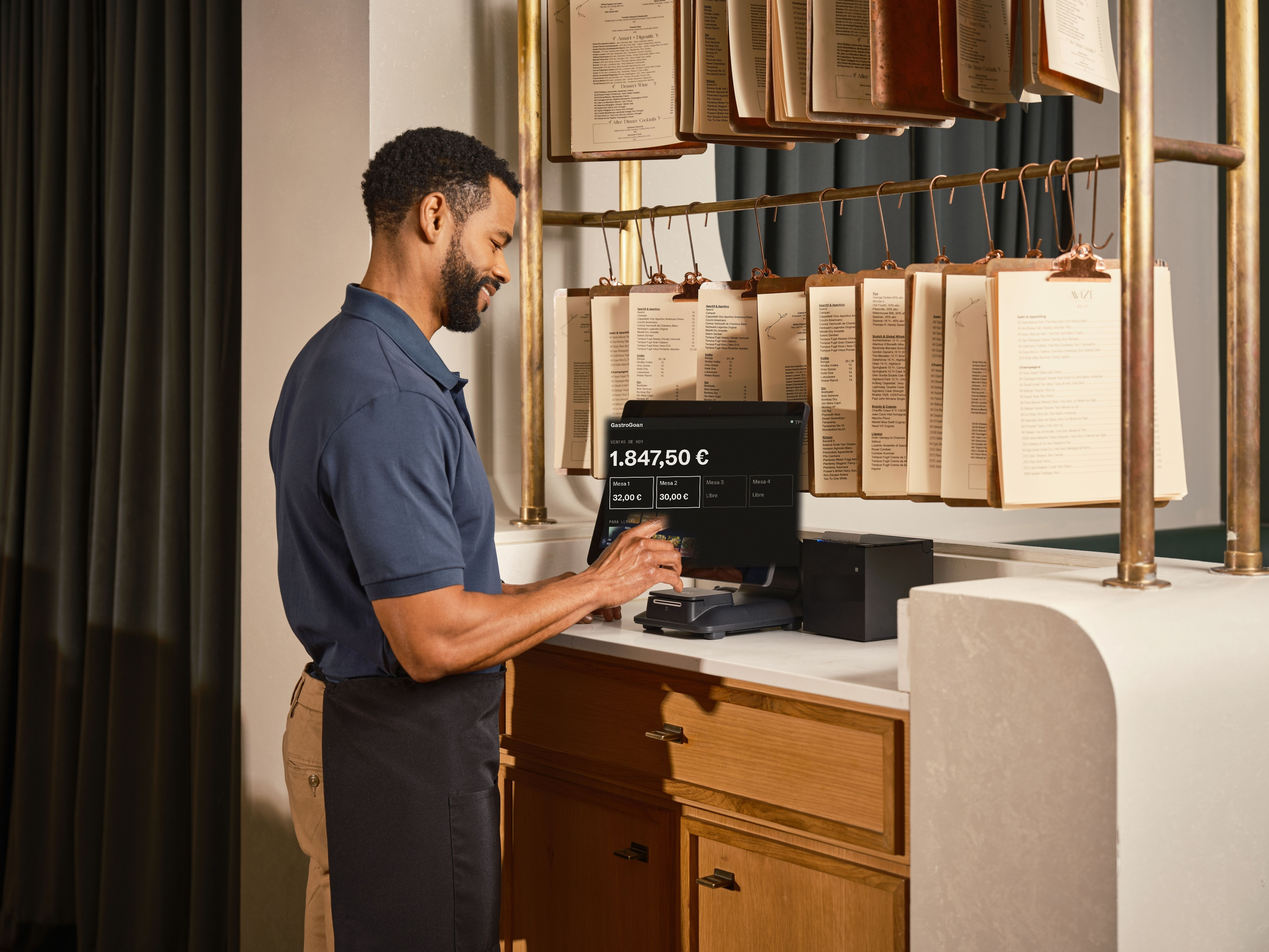
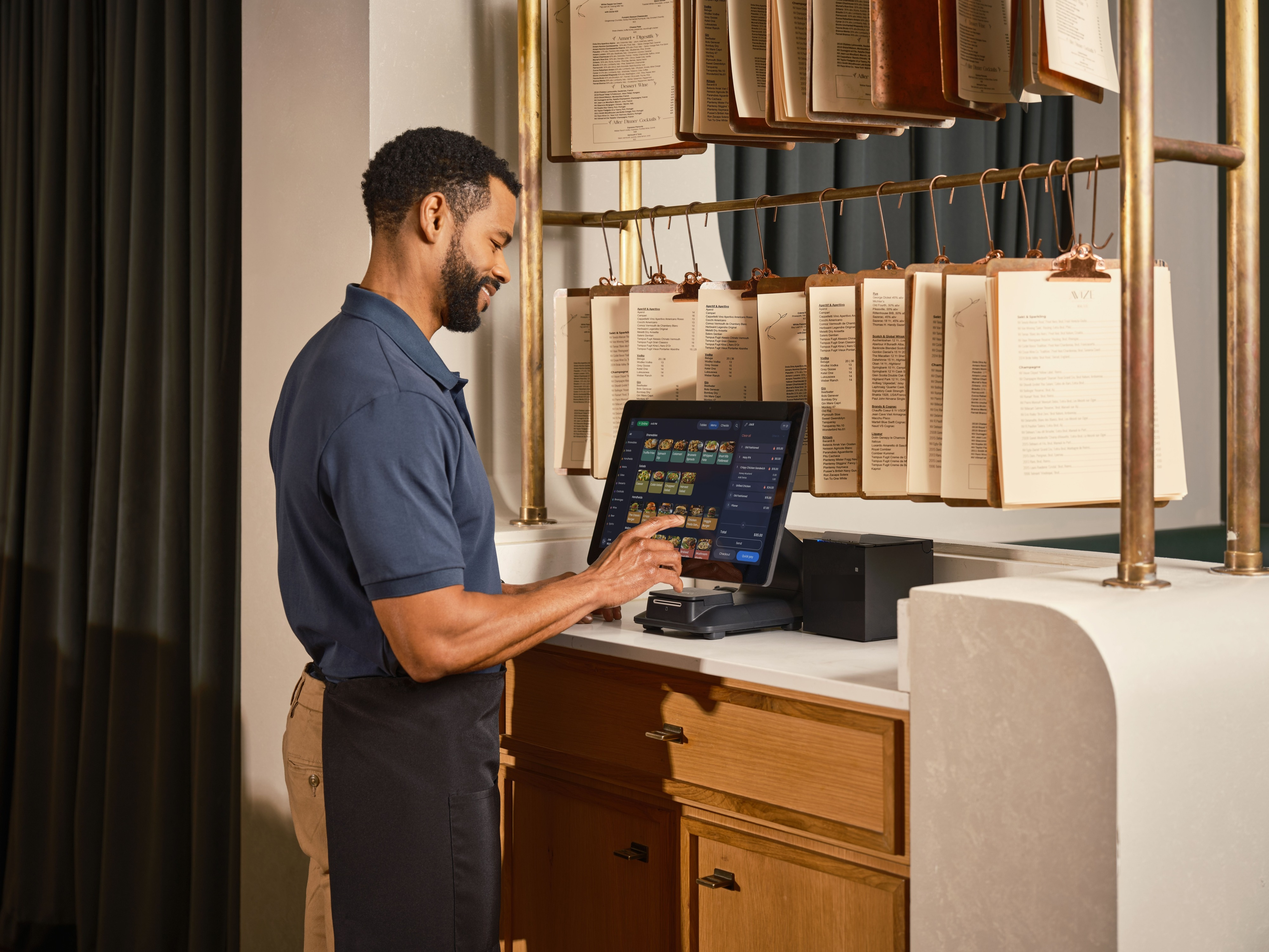
Segunda creatividad: la foto sola y una línea abajo
El dueño simplificó el anuncio entero, y queda mejor que todo lo
anterior: la foto respira y el ojo va directo al número.

- La pantalla del TPV se queda como venía. Se había sustituido por la
  de GastroGoan en perspectiva para no enseñar el software de otra
  empresa; salía bien, pero él prefiere el original. Todo ese aparato
  (panel dibujado con PIL, homografía, máscara de piel, reflejo del
  cristal) se borra: ya no lo usa nadie y queda en el historial.
- Fuera la marca, el cierre y el botón pintado. Queda UNA línea:
  "¿Por qué pagar +2.500 € al año pudiendo pagar 100 €?". El
  "Descubre cómo" va en el botón nativo de Meta, que además convierte
  mejor que uno dibujado dentro de la imagen.
- El texto baja al pie y se alinea a la izquierda: ahí la foto es
  oscura de lado a lado (mandil y mueble), así que ya no hace falta
  arrinconarlo a la derecha para no taparle la cara al camarero. El
  velo pasa de entrar por el lado a ser un telón de abajo.
- Los dos números en colores opuestos: lo que paga en blanco, lo que
  podría pagar en naranja. La comparación se ve antes de leerla.

Lo único que se sigue tocando de la foto es el logo de SpotOn grabado
en la impresora (tapar-marcas.py). La foto es de Pexels y la subió la
propia SpotOn, así que la licencia cubre el uso comercial, pero una
marca ajena bien legible dentro de un anuncio es lo que Meta revisa y
taparla no cuesta nada.

Fuera también las fotos de la tablet de cafetería: esa variante se
[…]

Changed region(s): [[0.4688, 0.434, 0.6562, 0.62]]

diff --git a/anuncios/tapar-marcas.py b/anuncios/tapar-marcas.py
@@ -1,0 +1,30 @@
+#!/usr/bin/env python3
+"""Tapa las marcas de terceros que quedan legibles en la foto del anuncio.
+
+La foto del camarero es de Pexels y la subió la propia SpotOn, así que la
+licencia cubre el uso comercial. Pero su LOGO sale grabado y legible en la
+impresora de tickets, y una marca ajena bien leída dentro de un anuncio es
+justo lo que Meta revisa.
+
+El dueño decidió dejar la pantalla como venía —se probó a sustituirla por la
+de GastroGoan en perspectiva y prefirió el original—, así que aquí solo se
+tapa el logo. El parche va difuminado y algo más oscuro que el entorno: un
+rectángulo liso se ve antes que la marca que oculta.
+
+    python3 anuncios/tapar-marcas.py
+"""
+from PIL import Image, ImageFilter
+import numpy as np
+
+ENTRADA = 'anuncios/fotos/camarero.jpg'
+SALIDA  = 'anuncios/fotos/camarero-limpio.jpg'
+# Coordenadas sobre la foto a 4000 px de ancho.
+MARCAS = [(2557, 1811, 2726, 1895)]   # "SpotOn" en la impresora
+
+im = Image.open(ENTRADA).convert('RGB')
+for (x0, y0, x1, y1) in MARCAS:
+    trozo = im.crop((x0, y0, x1, y1)).filter(ImageFilter.GaussianBlur((x1-x0)//5))
+    a = np.asarray(trozo).astype(np.float32) * 0.8
+    im.paste(Image.fromarray(np.clip(a, 0, 255).astype(np.uint8), 'RGB'), (x0, y0))
+im.save(SALIDA, quality=93)
+print(f'✅ {SALIDA}')

diff --git a/anuncios/fotos/LEEME.md b/anuncios/fotos/LEEME.md
@@ -8,8 +8,10 @@ pueden volver a construir.
 | Fichero | Origen | Qué es |
 |---|---|---|
 | `cocina-pase.jpg` | Pexels · `pexels-paolino96-19553654` | Cocina de pase de noche, 3153×5606 |
+| `camarero.jpg` | Pexels · `pexels-spoton-pos-2160258094` | Camarero en el TPV con las cartas colgadas, 4000×3000 |
+| `camarero-limpio.jpg` | derivada de `camarero.jpg` | La misma, con la marca SpotOn tapada |
 
-## Por qué esta foto y no otra
+## Por qué esta cocina y no otra
 
 Tiene **tres franjas naturales** —techo oscuro, barra de pase iluminada,
 negro casi puro abajo— y el anuncio las aprovecha en vez de pelearse con
@@ -20,35 +22,30 @@ degradado para poder meter texto, y eso siempre se nota.
 Además, 3153×5606 es exactamente 9:16, así que en story (1080×1920) encaja
 sin recortar ni un píxel.
 
+## Por qué la del camarero
+
+Es la que resuelve el problema del CONTEXTO: delantal, polo de servicio,
+cartas colgadas en pinzas, carriles de latón, impresora de tickets. Con las
+otras no se veía que el anuncio iba dirigido a hostelería.
+
+⚠ Se probó a sustituir la pantalla del TPV por la de GastroGoan en
+perspectiva, para no enseñar el software de otra empresa. Salía bien, pero
+el dueño prefirió el original: la pantalla va tal cual. Lo único que se toca
+es el LOGO de SpotOn grabado en la impresora (`tapar-marcas.py`), porque una
+marca ajena bien legible dentro de un anuncio es lo que Meta revisa. El
+código de la sustitución está en el historial de git si alguna vez hace falta.
+
+## Tamaño
+
+⚠ Las fotos se guardan a **4000 px de ancho como mucho**. La del camarero
+venía a 10.889 px y son 4,6 MB para un anuncio de 1080: bajarla a 4000
+ahorra dos tercios del peso sin que se note nada. Si se vuelve a bajar una
+foto de Drive, reducirla ANTES de medir cualquier coordenada — van en
+píxeles de la foto y no sobreviven a un reescalado.
+
 ## Licencia
 
 ⚠ La licencia de Pexels permite uso comercial y publicidad. **Cualquier foto
 nueva que se meta aquí tiene que cumplir lo mismo**: una imagen de Getty,
 Shutterstock o sacada de una búsqueda de Google NO se puede usar en un
 anuncio de pago. Meta retira anuncios por eso y el autor puede reclamar.
-
-| `tpv-a.jpg` | Pexels · `pexels-rdne-4921264` | TPV de tablet en cafetería, 3684×5526 |
-| `tpv-limpio.jpg` | derivada de `tpv-a.jpg` | La misma, con GastroGoan en pantalla |
-| `camarero.jpg` | Pexels · `pexels-spoton-pos-2160258094` | Camarero en el TPV con las cartas colgadas, 4000×3000 |
-| `camarero-limpio.jpg` | derivada de `camarero.jpg` | La misma, con GastroGoan en pantalla y sin la marca SpotOn |
-
-## Las versiones "limpias": por qué existen
-
-Las fotos de TPV que se encuentran enseñan SIEMPRE el software de otra
-empresa. Publicarlas tal cual es pagar por anunciar a un competidor, y Meta
-puede tumbar el anuncio por marca ajena.
-
-`anuncios/pantalla-gastrogoan.py` sustituye la pantalla por la de GastroGoan
-en perspectiva, respetando la mano. Se guardan las dos versiones de cada
-foto: la original porque es el material de partida, y la limpia porque es la
-que va al anuncio.
-
-⚠ Las fotos se guardan a **4000 px de ancho como mucho**. La del camarero
-venía a 10.889 px y son 4,6 MB para un anuncio de 1080: bajarla a 4000
-ahorra dos tercios del peso sin que se note nada. Si se vuelve a bajar una
-foto de Drive, reducirla ANTES de medir el cuadrilátero — las coordenadas
-van en píxeles de la foto y no sobreviven a un reescalado.
-
-Se descartaron otras dos fotos de TPV que subió el dueño (una horizontal con
-la tablet muy escorada, y otra donde la mano tapaba media pantalla). No se
-guardan: siguen en su Drive y ocupaban 4,5 MB para nada.
